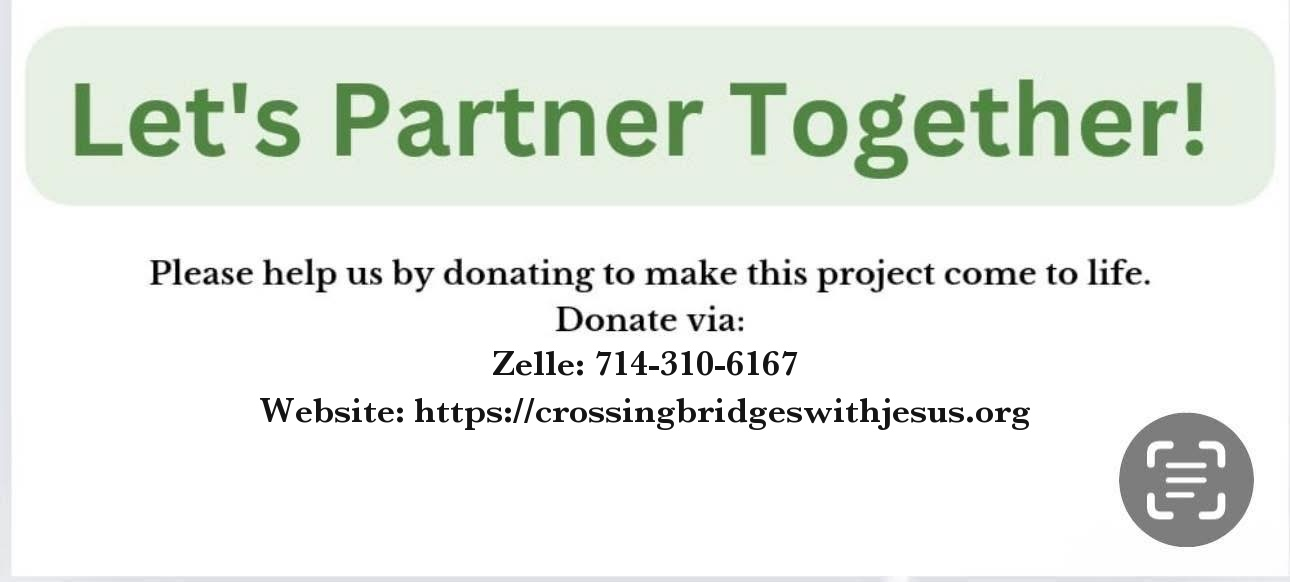
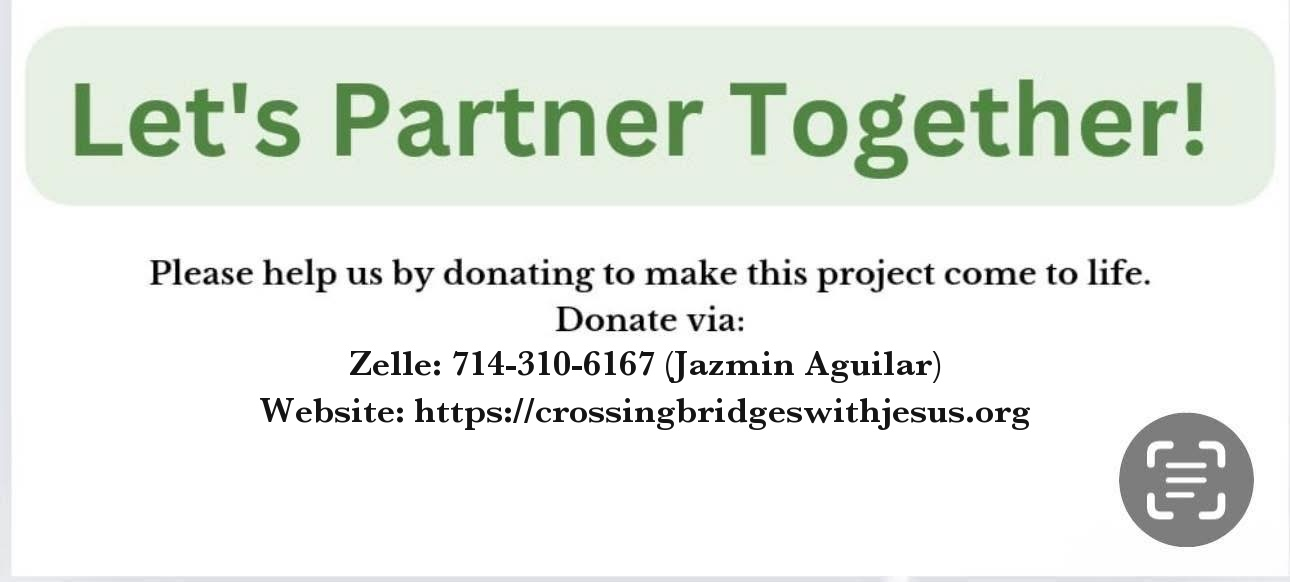
Add name

Changed region(s): [[0.2481, 0.5876, 0.7442, 0.6495]]

diff --git a/src/App.jsx b/src/App.jsx
@@ -1423,6 +1423,9 @@ const App = () => {
                     <span className="font-medium text-slate-800 group-hover:text-amber-600 transition-colors select-all text-sm lg:text-base">
                       714-310-6167
                     </span>
+                    <span className="text-xs text-slate-500 mt-1">
+                      Jazmin Aguilar
+                    </span>
                   </div>
                 </div>
               </div>
